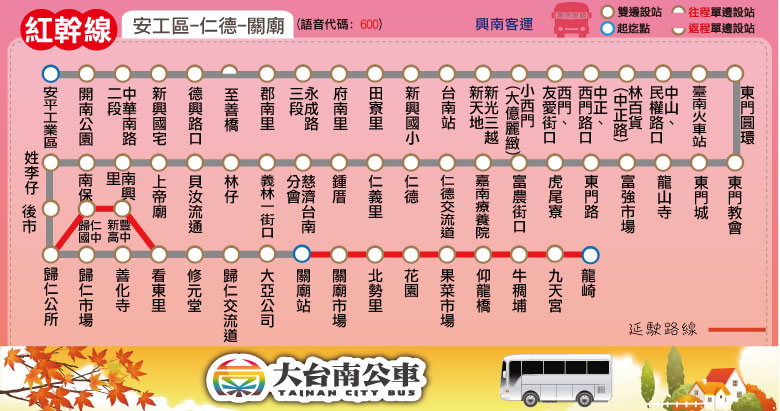
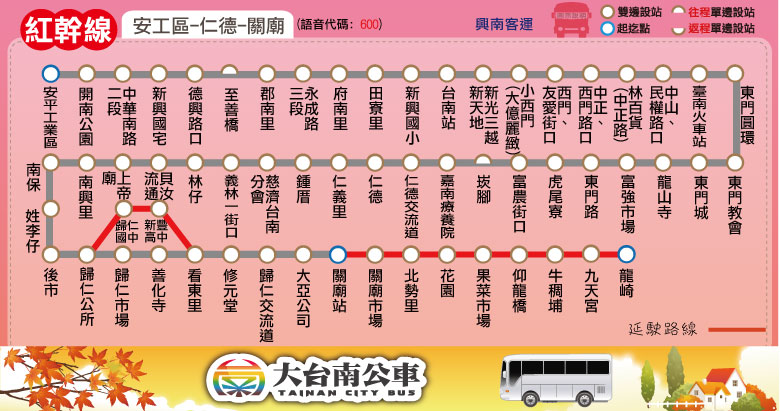
Add new stop: red,r2,r10; Add news: g16; Remove news: 20,r10

Changed region(s): [[0.0308, 0.3796, 0.8308, 0.8467], [0.0308, 0.3504, 0.0615, 0.4672]]

diff --git a/route/fare_and_time/red.js b/route/fare_and_time/red.js
@@ -3,7 +3,7 @@ red_interval_stop = [
 ["安平工業區","開南公園","中華南路二段","新興國宅","德興路口","至善橋","郡南里","永成路三段","府南里","田寮里","新興國小"], // 安平工業區
 ["臺南站","新光三越新天地","小西門(大億麗緻)","西門、友愛街口","中正、西門路口","林百貨(中正路)","中山、民權路口",
 "臺南火車站","東門圓環","東門教會","東門城","龍山寺","富強市場","東門路","虎尾寮","富農街口"], // 臺南
-["嘉南療養院","仁德交流道","仁德","仁義里","鍾厝","慈濟臺南分會","義林一街口","林仔","貝汝流通"], // 仁德
+["崁腳","嘉南療養院","仁德交流道","仁德","仁義里","鍾厝","慈濟臺南分會","義林一街口","林仔","貝汝流通"], // 仁德
 ["上帝廟","南興里","南保","姓李仔","後市","歸仁公所","善化寺","看東里","修元堂","歸仁交流道"], // 歸仁
 ["大亞公司","關廟站","關廟市場"], // 關廟
 ["北勢里","花園","果菜市場","仰龍橋","牛稠埔","九天宮"], // 花園

diff --git a/green/green_16.html b/green/green_16.html
@@ -17,7 +17,7 @@
 <body>
 <script type="text/javascript">
 	block_header();
-	block_route_map(null);
+	block_route_map('因新化區中正路新化老街辦理「2015新化年貨大街」活動，於104年2月12日至104年2月17日實施道路管制，本路線綠16-「新化-關廟-高鐵台南站」線(無經過統一花園班次)改道路徑如<a target="_blank" href="http://snnew.myweb.hinet.net/1040205-1.pdf">附件</a>所示。改道路線：<font color="blue">原路線-中山路-民生路-復興路-外環道路-中正路-原路線</font>，期間不停靠「瓜瓜園生態館」招呼站，如欲前往關廟或高鐵台南站乘客請就近至「新化站」或「頂山子腳」招呼站搭乘。');
 	block_route_info(route_interval,'興南客運','','里程計費','http://2384.tainan.gov.tw:8080/AGPSRemoteQuery3/ajaxBus.jsp?pathId=1116&locale=zh_TW');
 	block_fare(0, null);
 	block_time_schedule('新化','關廟/高鐵臺南站','<font color="red">「豐」</font>表示繞駛新豐高中，僅頭班繞駛');

diff --git a/route/fare_and_time/red_10.js b/route/fare_and_time/red_10.js
@@ -5,7 +5,7 @@ red_10_interval_stop = [
 ["貝汝流通","林仔","義林一街口","慈濟臺南分會","鐘厝","仁義里","仁德","仁德公所","一甲廟路口"], // 仁德
 ["漢平公司","土庫","太子廟"], // 太子廟
 ["大灣","大灣天公廟","鄭耳鼻喉科","楊慶祥中醫診所","大眾證券公司"], // 大灣
-["國通汽車公司","永康(永大路)","埔園里","永康火車站","永康農會","臺南大學附中"], // 永康
+["國通汽車公司","永康(永大路)","埔園里","永康火車站","自強路口","永康農會","臺南大學附中"], // 永康
 ["二王","康福新城","中興","南工社區","臺南高工"], // 二王
 ["大橋","奇美醫院"] // 奇美醫院
 ];

diff --git a/city_bus/city_bus_20.html b/city_bus/city_bus_20.html
@@ -17,7 +17,7 @@
 <body>
 <script type="text/javascript">
 	block_header();
-	block_route_map('配合工務局1月25日(星期日)至29日(星期四)永康區永大路2段道路工程交通管制，施工期間本市公車「大眾證券公司」、「楊慶祥中醫診所」站雙向將暫不停靠，影響本市公車路線為20路、紅10支線，欲乘車的民眾請前往前後鄰近站位搭乘，造成不便敬請見諒。');
+	block_route_map(null);
 	block_route_info(route_interval,'府城客運','尖20離40','一段票','http://2384.tainan.gov.tw:8080/AGPSRemoteQuery3/ajaxBus.jsp?pathId=10020&locale=zh_TW');
 	block_fare(1, null);
 	block_time_schedule('南紡夢時代','安南醫院','');

diff --git a/red/red_10.html b/red/red_10.html
@@ -17,7 +17,7 @@
 <body>
 <script type="text/javascript">
 	block_header();
-	block_route_map('配合工務局1月25日(星期日)至29日(星期四)永康區永大路2段道路工程交通管制，施工期間本市公車「大眾證券公司」、「楊慶祥中醫診所」站雙向將暫不停靠，影響本市公車路線為20路、紅10支線，欲乘車的民眾請前往前後鄰近站位搭乘，造成不便敬請見諒。');
+	block_route_map(null);
 	block_route_info(route_interval,'興南客運','','里程計費','http://2384.tainan.gov.tw:8080/AGPSRemoteQuery3/ajaxBus.jsp?pathId=1610&locale=zh_TW');
 	block_fare(0, null);
 	block_time_schedule('關廟','奇美醫院','');
